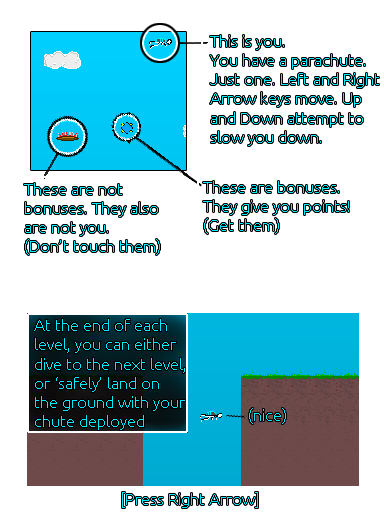
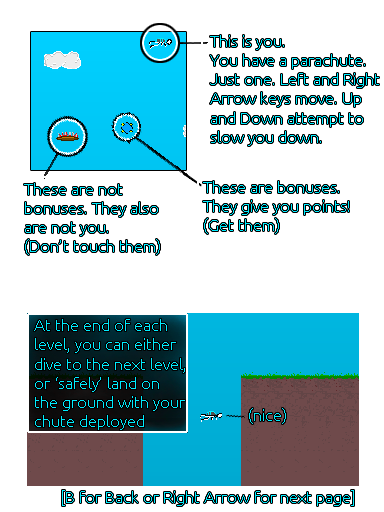
Improvement: B button now goes back on both help pages

Changed region(s): [[0.1562, 0.9375, 0.9375, 1.0]]

diff --git a/LD28/HelpScreen.cpp b/LD28/HelpScreen.cpp
@@ -52,7 +52,7 @@ void HelpScreen::update(float delta)
 	{
 		mLeftReleased = true;
 	}
-	if(mCurrHelpFrame == 1 && sf::Keyboard::isKeyPressed(sf::Keyboard::B))
+	if(sf::Keyboard::isKeyPressed(sf::Keyboard::B))
 	{
 		// Remove this screen
 		fRemoveScreen();
